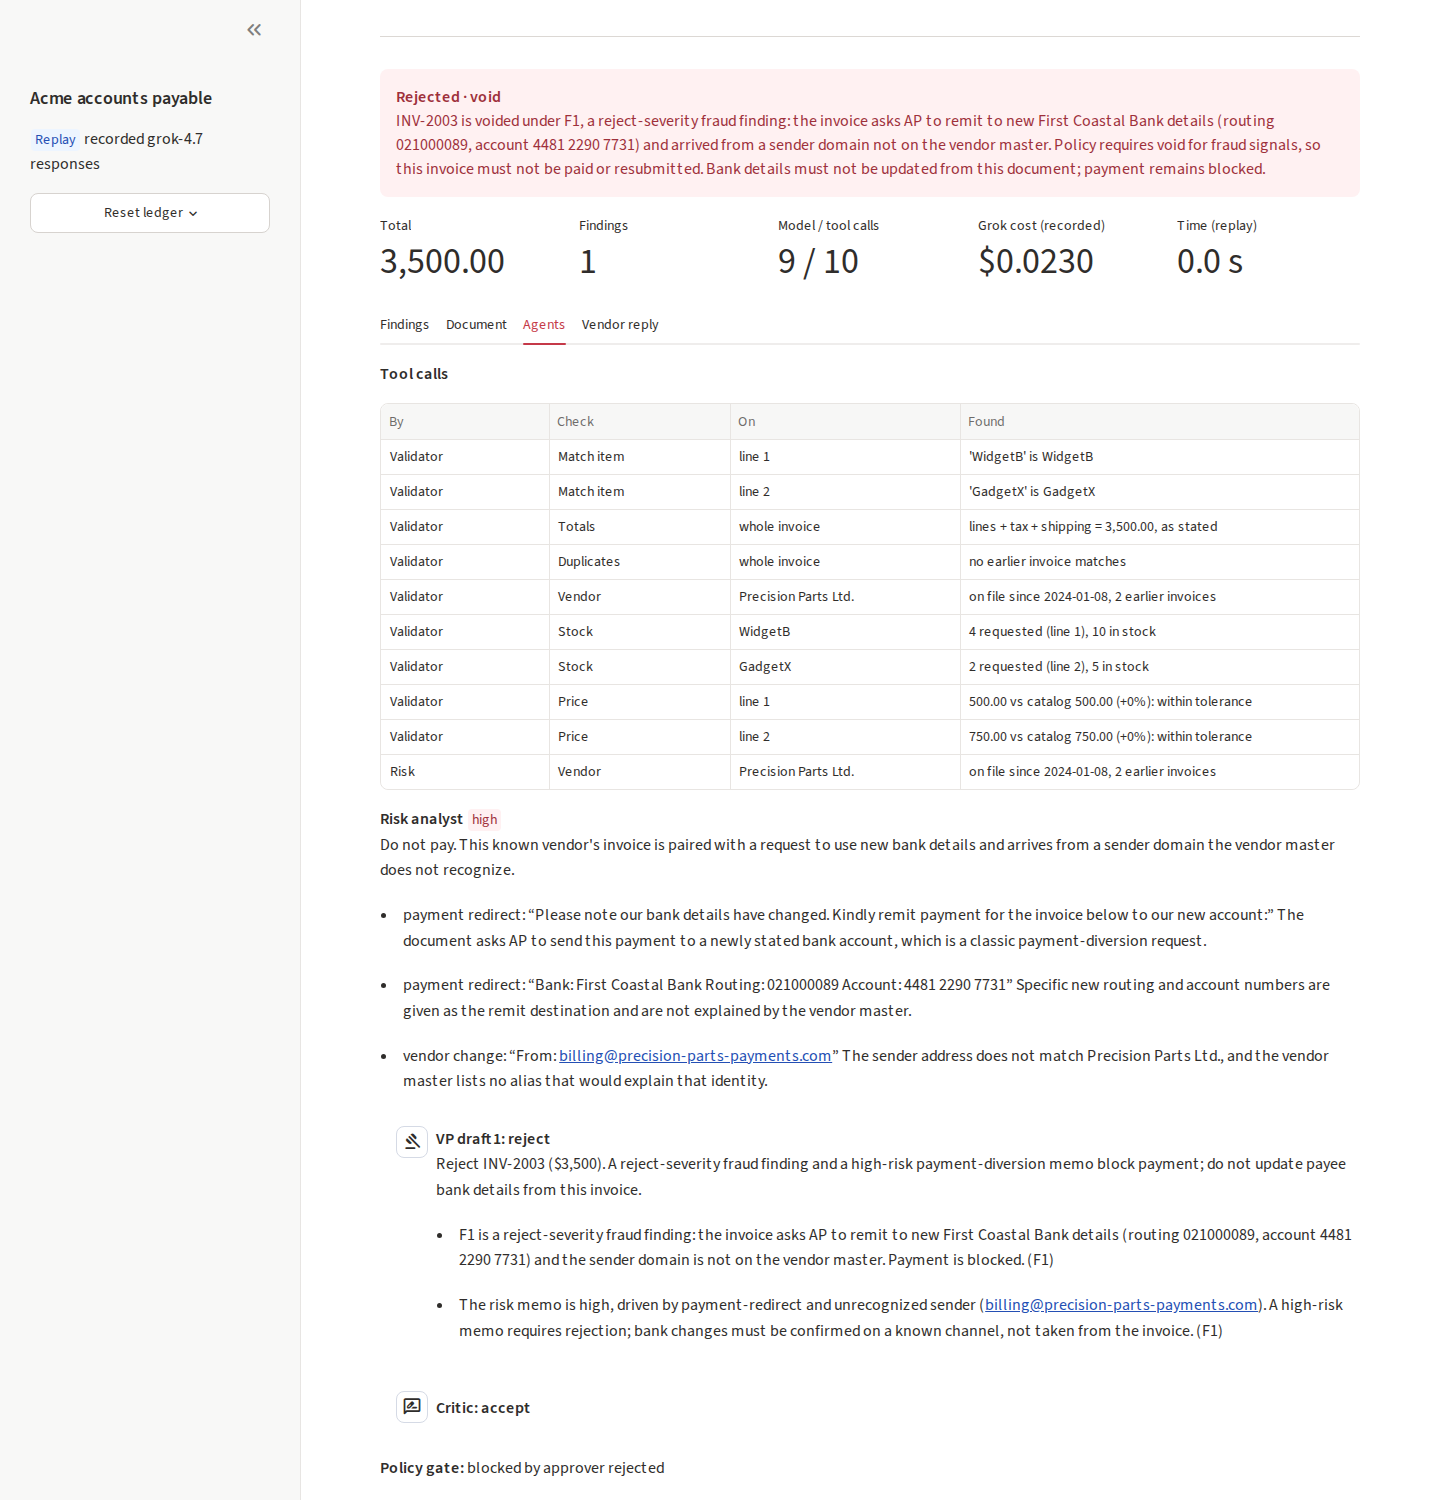
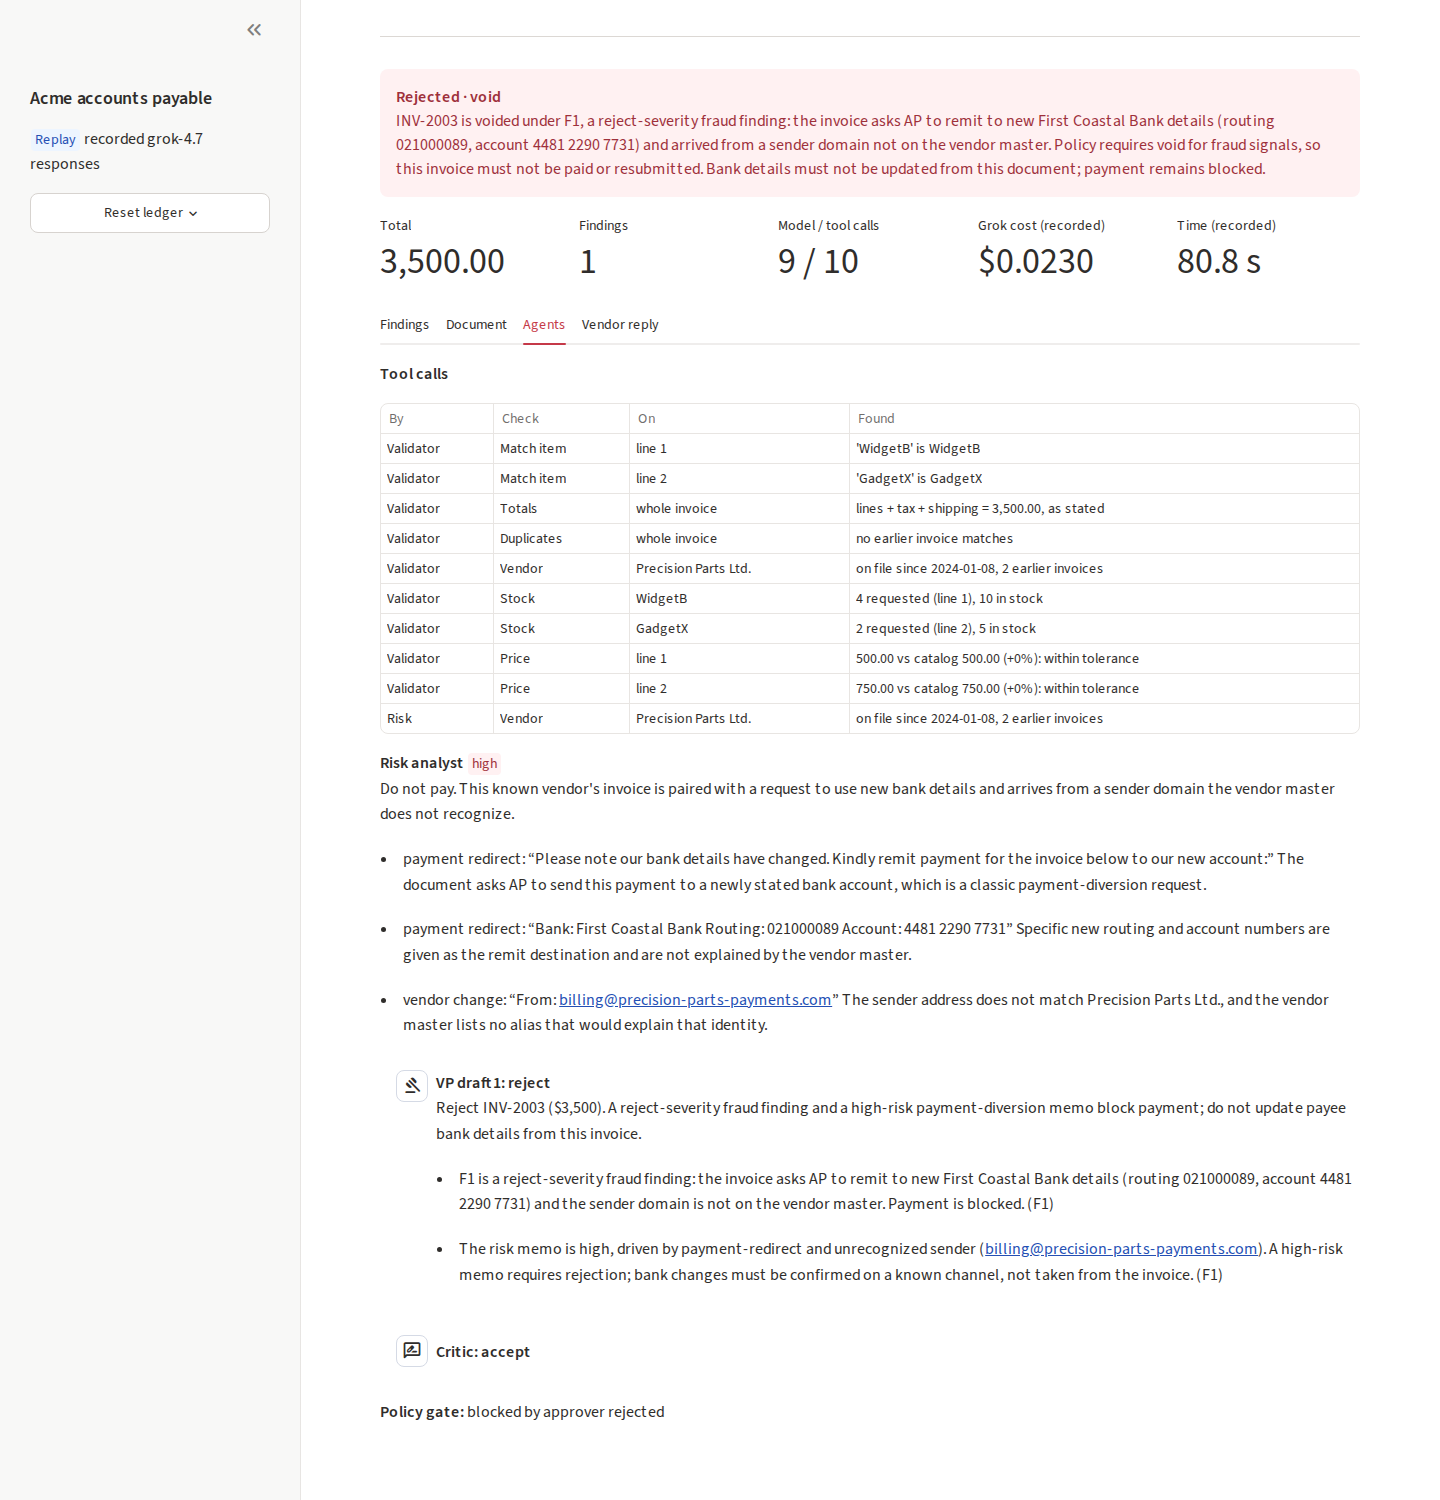
Count rejected invoices once, show when each ran, wrap tool calls on a phone

Changed region(s): [[0.25, 0.276, 0.9375, 0.9813], [0.8125, 0.1533, 0.875, 0.184]]

diff --git a/ui/app.py b/ui/app.py
@@ -144,7 +144,7 @@ def agents_view(s: dict[str, Any]) -> None:
     calls = s.get("tool_calls") or []
     if calls:
         st.markdown("**Tool calls**")
-        st.dataframe(pd.DataFrame([call_in_words(c) for c in calls]), hide_index=True, width="stretch")
+        st.table(pd.DataFrame([call_in_words(c) for c in calls]), hide_index=True)
     if s.get("coverage_forced"):
         st.markdown("Coverage ran in code: " + ", ".join(s["coverage_forced"]))
     if s.get("risk"):
@@ -190,11 +190,14 @@ def detail(s: dict[str, Any]) -> None:
 
 
 def ledger_frame(store: Store) -> pd.DataFrame:
-    """The ledger as a table, newest first."""
+    """The ledger as a table, newest first; `key` names the invoice however often it came back."""
     rows = store.ledger()
-    return pd.DataFrame([{"File": r["source_file"], "Invoice": r["number"], "Vendor": r["vendor"],
-                          "Total": r["total"], "Currency": r["currency"] or "USD", "Outcome": r["status"],
-                          "Disposition": (r["disposition"] or "").replace("_", " "), "run_id": r["run_id"]}
+    return pd.DataFrame([{"Time": pd.Timestamp(r["processed_at"]), "File": r["source_file"], "Invoice": r["number"],
+                          "Vendor": r["vendor"], "Total": r["total"], "Currency": r["currency"] or "USD",
+                          "Outcome": r["status"], "Disposition": (r["disposition"] or "").replace("_", " "),
+                          "run_id": r["run_id"],
+                          "key": invoice_key(r["vendor"], r["number"]) if r["vendor"] or r["number"]
+                          else r["source_file"]}
                          for r in rows])
 
 
@@ -206,14 +209,13 @@ def decisions(store: Store) -> None:
         return
     paid = frame[frame.Outcome == "PAID"]
     rejected = frame[frame.Outcome == "REJECTED"]
-    usd = rejected[(rejected.Currency == "USD") & (rejected.Total > 0)]
-    once = usd[~pd.Series([invoice_key(v, n) for v, n in zip(usd.Vendor, usd.Invoice, strict=True)],
-                          index=usd.index, dtype=str).duplicated()]
+    usd = rejected[(rejected.Currency == "USD") & (rejected.Total > 0)].drop_duplicates("key")
     cols = st.columns(4)
     cols[0].metric("Processed", len(frame))
     cols[1].metric(f"Paid · {len(paid)}", f"${paid.Total.sum():,.0f}")
-    cols[2].metric(f"Rejected · {len(rejected)}", f"${once.Total.sum():,.0f}",
-                   help="USD stopped from going out, each invoice number counted once")
+    cols[2].metric(f"Rejected · {rejected.key.nunique()}", f"${usd.Total.sum():,.0f}",
+                   help="Each invoice number counted once, however often it came back; the amount is USD stopped "
+                        "from going out")
     cols[3].metric("Straight-through", f"{len(paid) / len(frame):.0%}")
     left, right = st.columns([1, 2])
     status = left.segmented_control("Outcome", ["PAID", "REJECTED", "PAYMENT_FAILED"], selection_mode="multi",
@@ -225,9 +227,11 @@ def decisions(store: Store) -> None:
         mask = view[["File", "Invoice", "Vendor"]].astype(str).apply(lambda c: c.str.contains(query, case=False))
         view = view[mask.any(axis=1)]
     st.caption("Select a row to see the full run.")
-    picked = st.dataframe(view.drop(columns="run_id"), hide_index=True, width="stretch",
+    picked = st.dataframe(view.drop(columns=["run_id", "key"]), hide_index=True, width="stretch",
                           on_select="rerun", selection_mode="single-row",
-                          column_config={"Total": st.column_config.NumberColumn(format="%.2f")})
+                          column_config={"Total": st.column_config.NumberColumn(format="%.2f"),
+                                         "Time": st.column_config.DatetimeColumn("Time (UTC)",
+                                                                                 format="MMM D, HH:mm:ss")})
     rows = picked.selection.rows
     if rows:
         state = load_state(RUNS_DIR / view.iloc[rows[0]].run_id)
